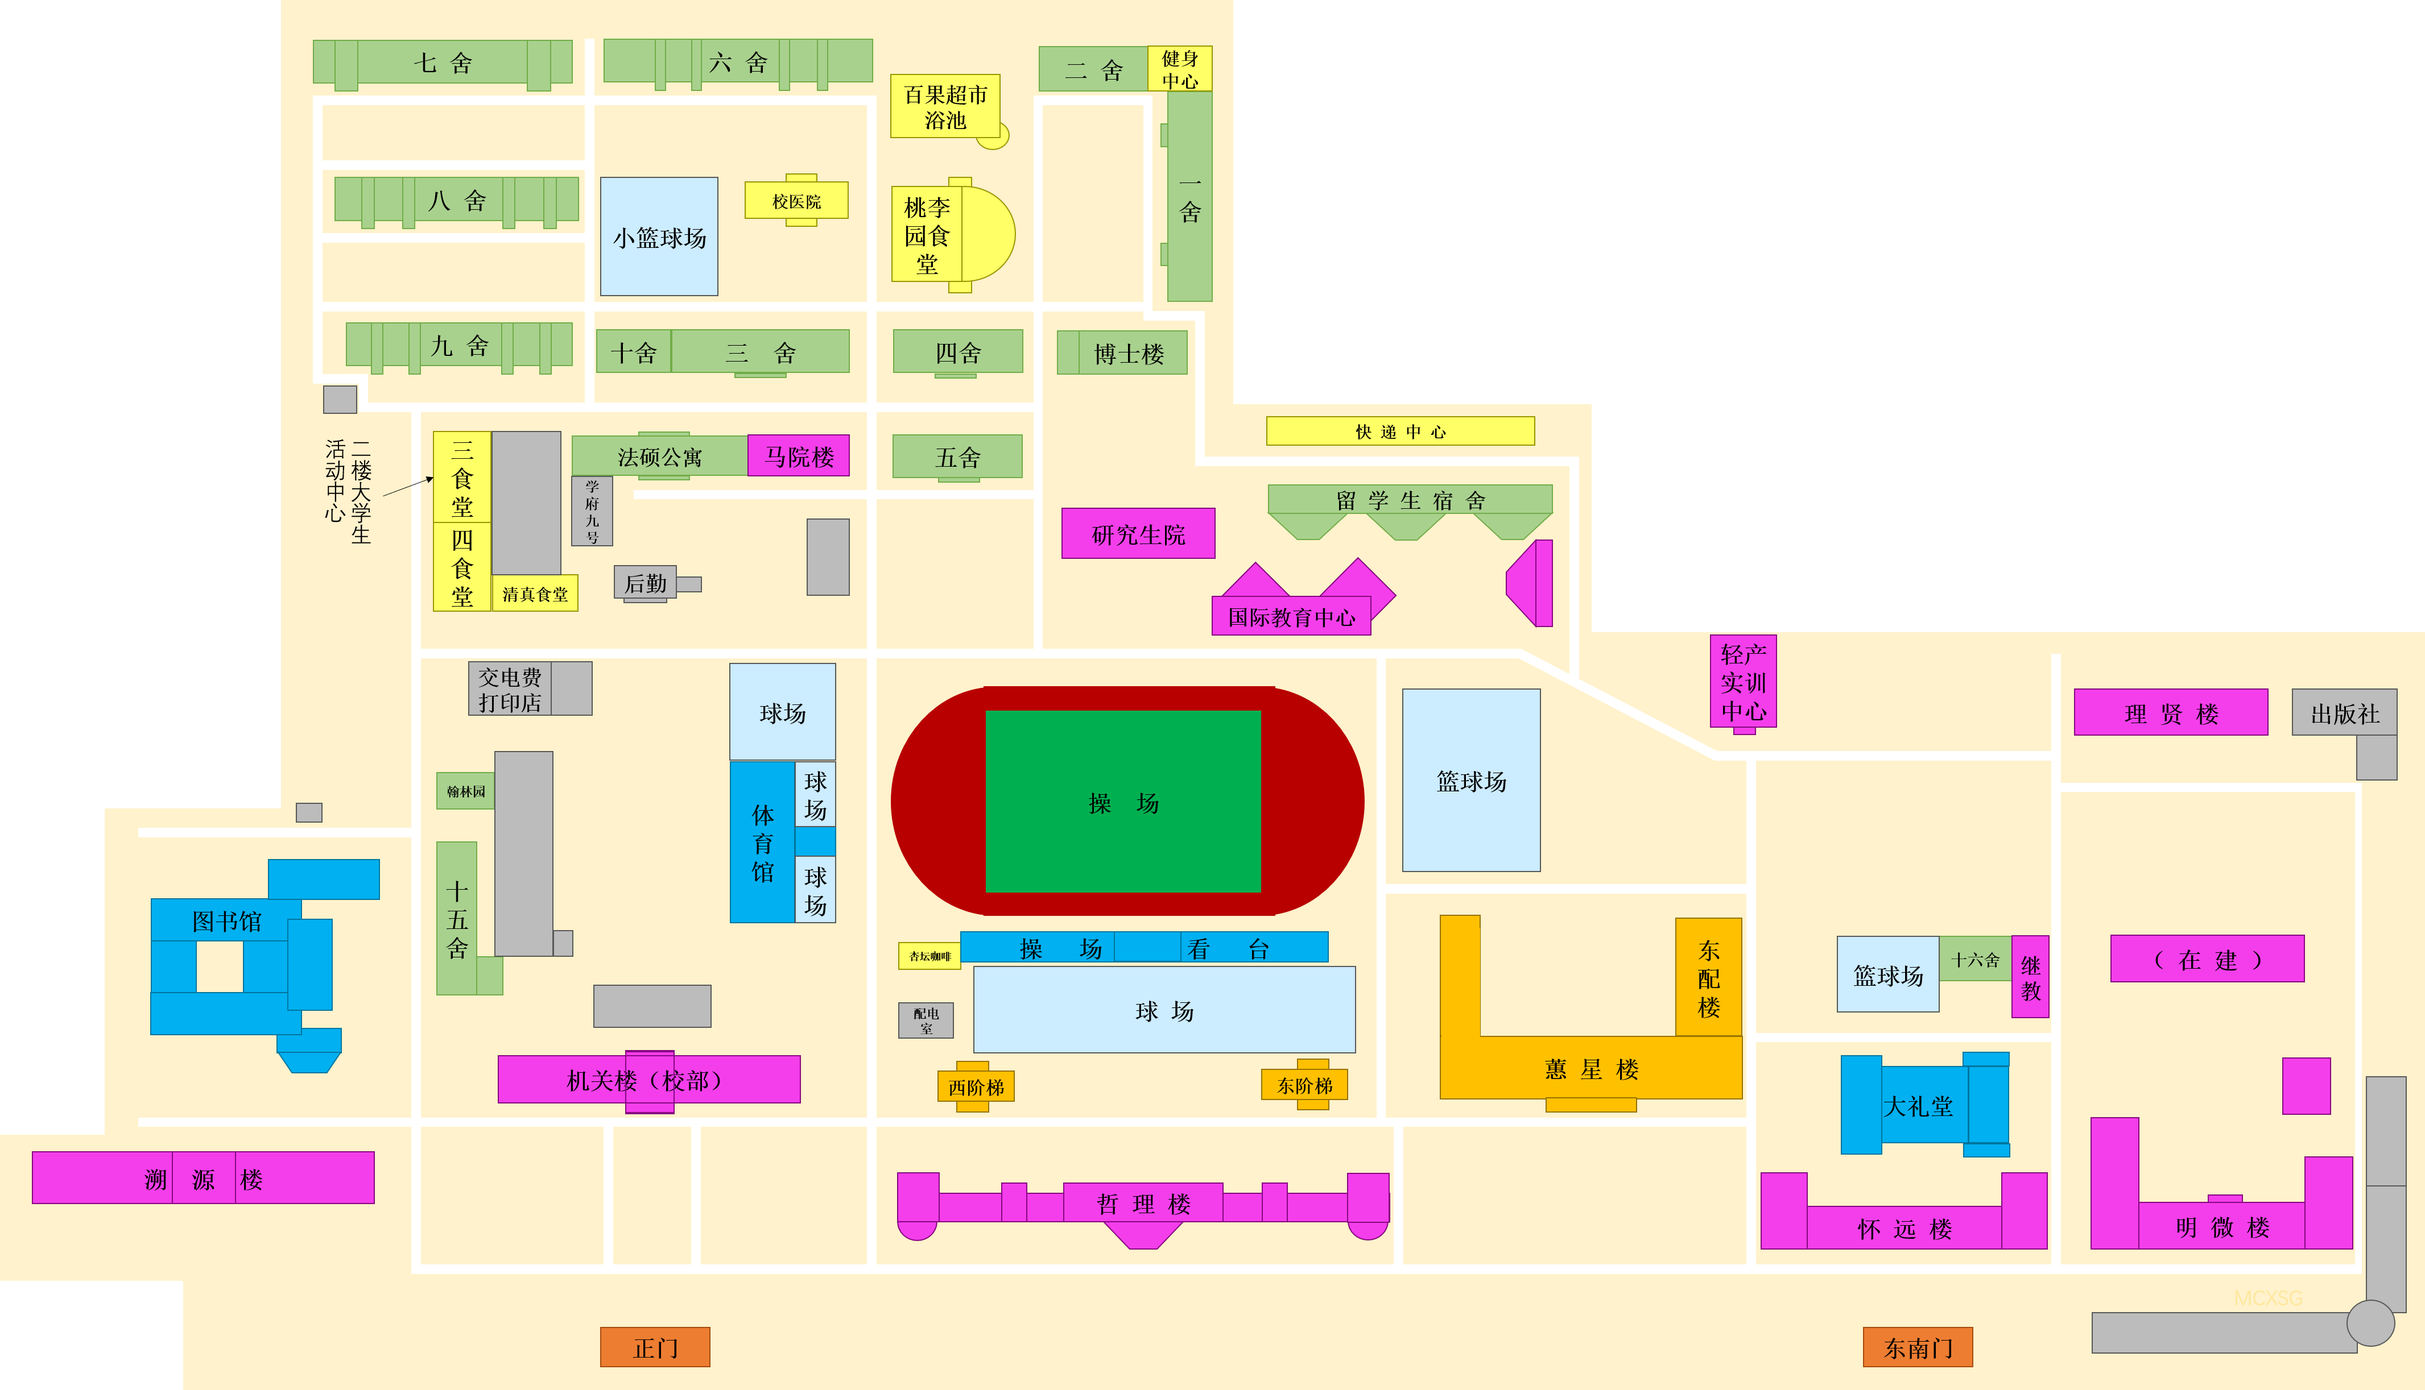
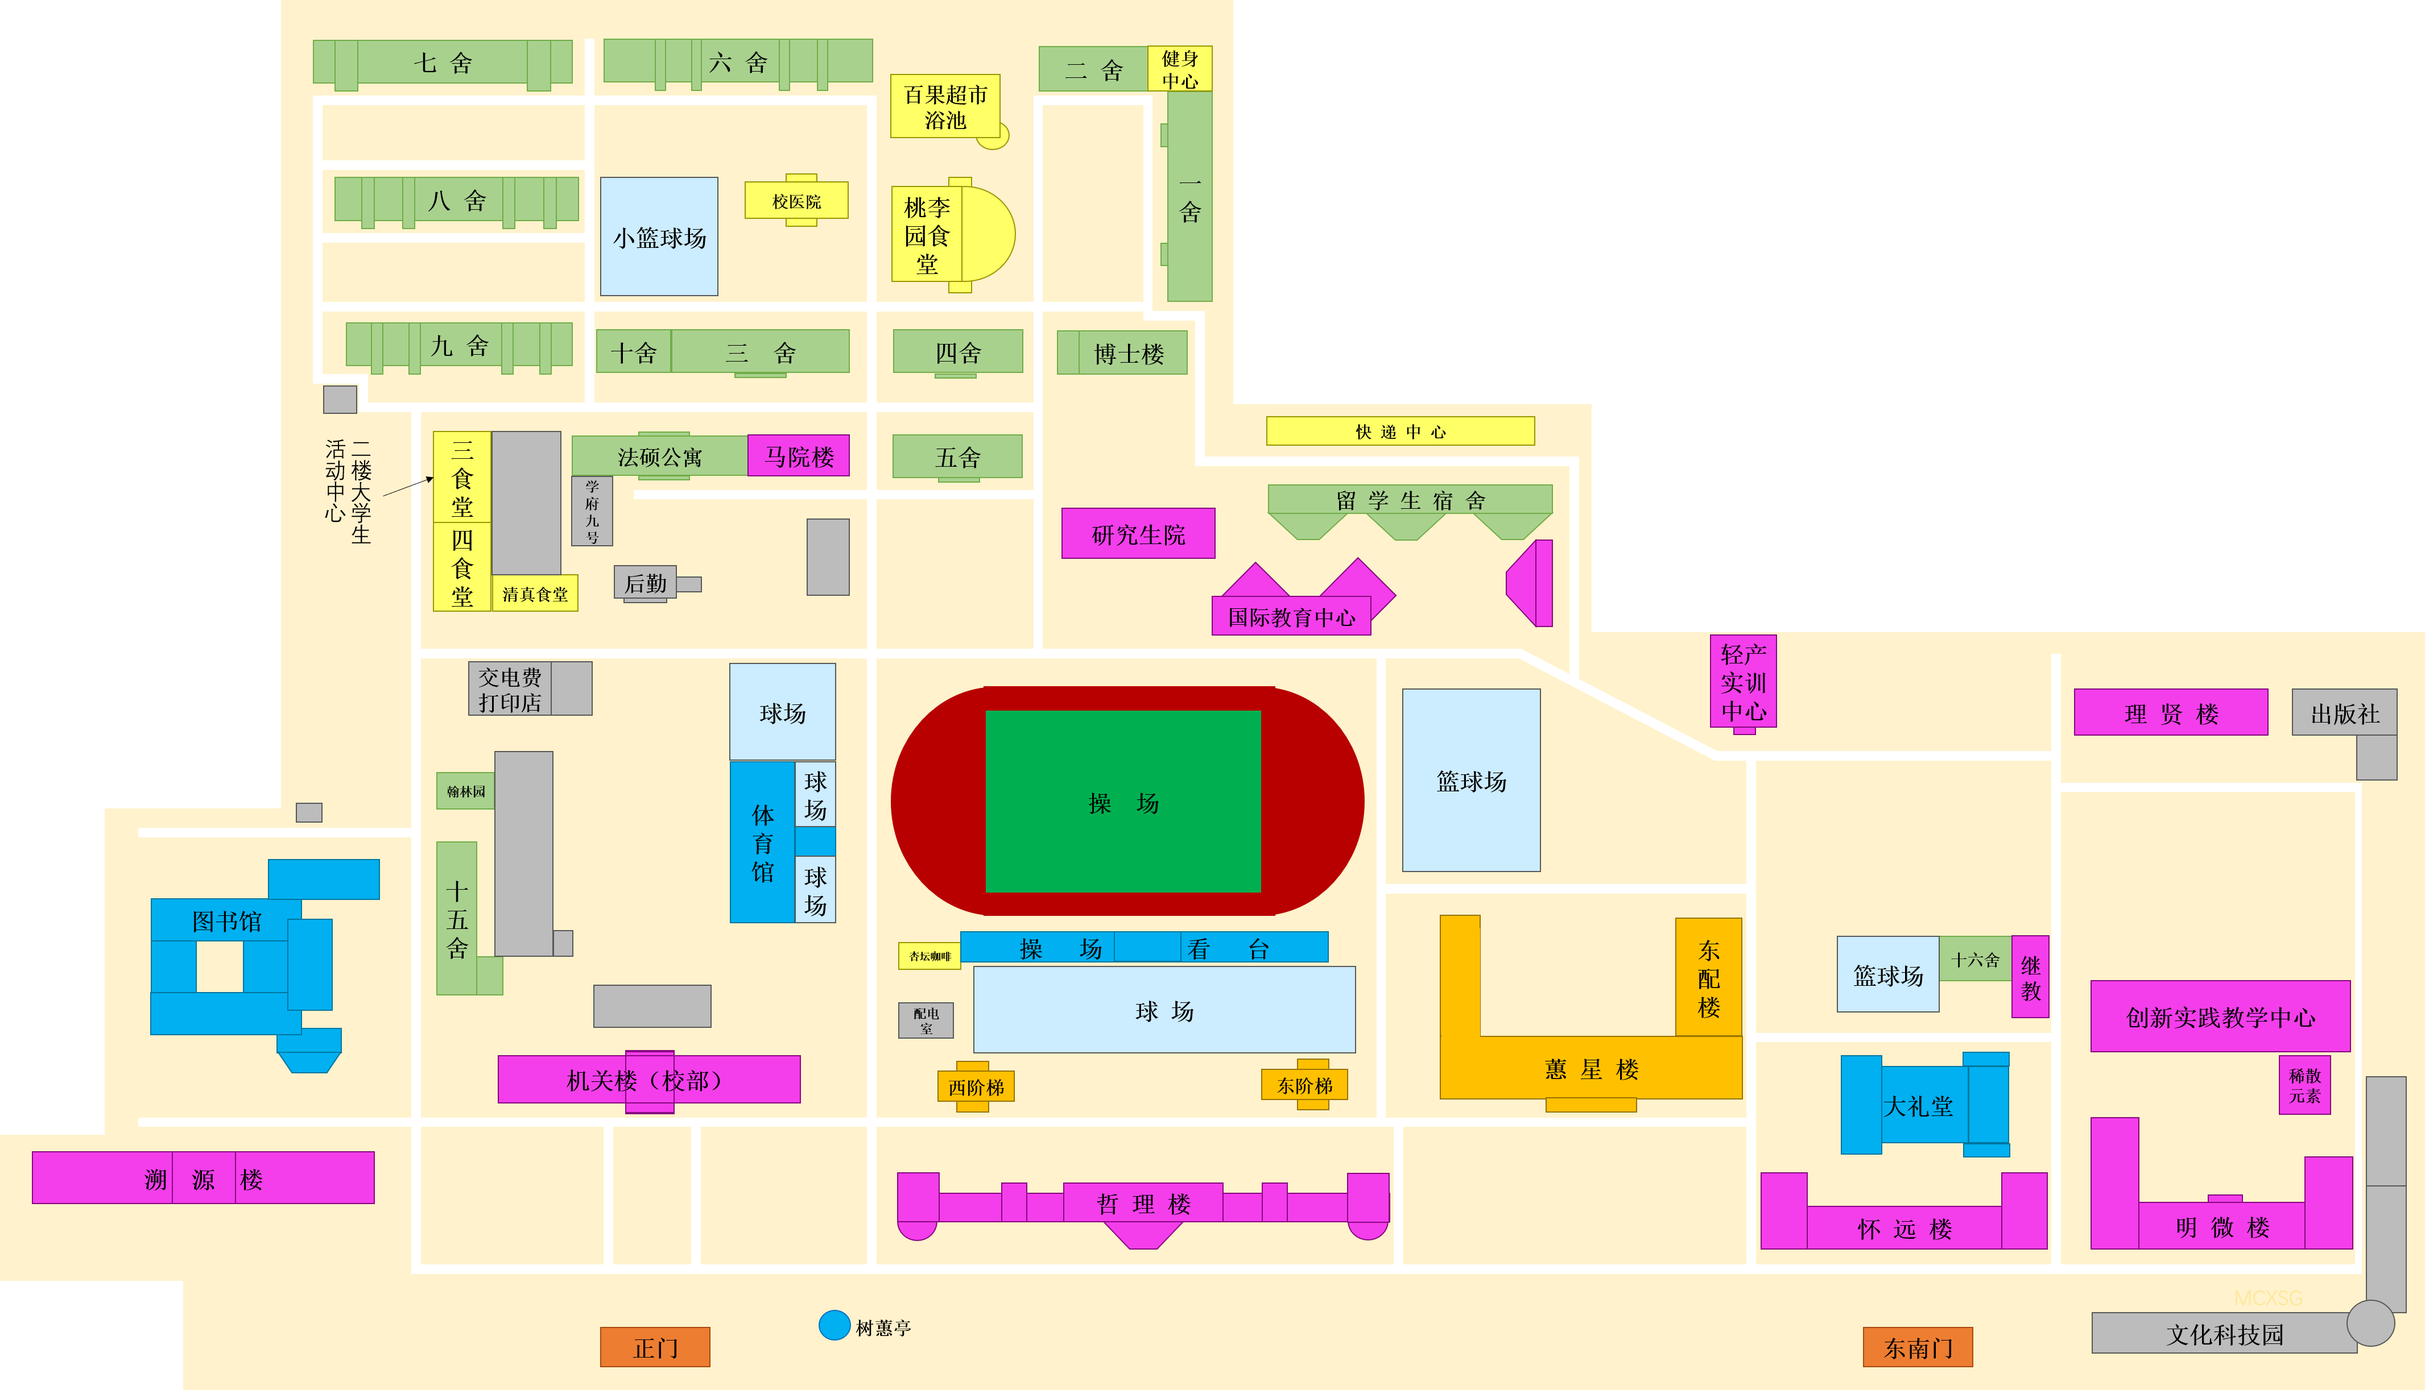
Add files via upload

Changed region(s): [[0.8424, 0.6528, 0.9672, 0.8082], [0.9048, 0.9325, 0.936, 0.9636], [0.3432, 0.9325, 0.3744, 0.9636]]

diff --git a/LNUmap/WEBmap.html b/LNUmap/WEBmap.html
@@ -54,7 +54,7 @@
 	{
 		position:absolute;
 		left:380px;
-		top:110px;
+		top:100px;
 		z-index=16;
 		width:330px;
 		height:255px;
@@ -160,7 +160,7 @@
 	.cssICON_tao_li_yuan
 	{
     position: absolute;
-    left: 446px;
+    left: 447px;
     top: 95px;
     z-index: 3;
 	}
@@ -171,6 +171,156 @@
     top: 44px;
     z-index: 3;
 	}
+	.cssICON_chu_ban_she
+	{
+    position: absolute;
+    left: 1142px;
+    top: 349px;
+    z-index: 3;
+	}
+	.cssICON_da_li_tang
+	{
+    position: absolute;
+    left: 918px;
+    top: 528px;
+    z-index: 3;
+	}
+	.cssICON_dong_jie_ti
+	{
+    position: absolute;
+    left: 632px;
+    top: 532px;
+    z-index: 3;
+	}
+	.cssICON_xi_jie_ti
+	{
+    position: absolute;
+    left: 470px;
+    top: 532px;
+    z-index: 3;
+	}
+	.cssICON_huai_yuan_lou
+	{
+    position: absolute;
+    left: 879px;
+    top: 588.3px;
+    z-index: 3;
+	}
+	.cssICON_ji_guan_lou
+	{
+    position: absolute;
+    left: 254px;
+    top: 528px;
+    z-index: 3;
+	}
+	.cssICON_ji_jiao
+	{
+    position: absolute;
+    left: 1001px;
+    top: 470px;
+    z-index: 3;
+	}
+	.cssICON_kuai_di_zhong_xin
+	{
+    position: absolute;
+    left: 634px;
+    top: 213.5px;
+    z-index: 3;
+	}
+	.cssICON_lan_qiu_chang
+	{
+    position: absolute;
+    left: 701px;
+    top: 349px;
+    z-index: 3;
+	}
+	.cssICON_li_xian_lou
+	{
+    position: absolute;
+    left: 1034px;
+    top: 349px;
+    z-index: 3;
+	}
+	.cssICON_liu_xue_sheng_su_she
+	{
+    position: absolute;
+    left: 635px;
+    top: 245.5px;
+    z-index: 3;
+	}
+	.cssICON_ming_wei_lou
+	{
+    position: absolute;
+    left: 1042px;
+    top: 561px;
+    z-index: 4;
+	}
+	.cssICON_qing_chan_shi_xun_zhong_xin
+	{
+    position: absolute;
+    left: 851px;
+    top: 320px;
+    z-index: 3;
+	}
+	.cssICON_shu_hui_ting
+	{
+    position: absolute;
+    left: 413px;
+    top: 657px;
+    z-index: 3;
+	}
+	.cssICON_su_yuan_lou
+	{
+    position: absolute;
+    left: 22.5px;
+    top: 577.5px;
+    z-index: 3;
+	}
+	.cssICON_tu_shu_guan
+	{
+    position: absolute;
+    left: 82px;
+    top: 433px;
+    z-index: 3;
+	}
+	.cssICON_wen_hua_ke_ji_yuan
+	{
+    position: absolute;
+    left: 1041px;
+    top: 595.5px;
+    z-index: 3;
+	}
+	.cssICON_xi_san_yuan_su
+	{
+    position: absolute;
+    left: 1135px;
+    top: 530px;
+    z-index: 5;
+	}
+	.cssICON_xin_li_ce_shi_shi_yan_shi
+	{
+    position: absolute;
+    left: 753px;
+    top: 274px;
+    z-index: 3;
+	}
+	.cssICON_zai_jian
+	{
+    position: absolute;
+    left: 1042px;
+    top: 493px;
+    z-index: 3;
+	}
+	.cssICON_zhe_li_lou
+	{
+    position: absolute;
+    left: 451.7px;
+    top: 588px;
+    z-index: 3;
+	}
+	
+	
+	
 	.cssICON_Title
 	{
     position: absolute;
@@ -256,11 +406,40 @@
 		
 	  <div class="cssICON_7_she" onclick="LocID='7_she';imgNum=4;showWind('七舍学生宿舍','七舍学生宿舍位于辽宁大学崇山校区西北角，男寝，本科生宿舍。基本配置：六人寝上床下桌,配备有阳台，无独立卫浴。','7_she',4)"><img src="images/icon/7_she.png" width="130" height="25" /></div>
 	  <div class="cssICON_6_she" onclick="LocID='6_she';imgNum=3;showWind('六舍学生宿舍','六舍学生宿舍位于辽宁大学崇山校区西北部，男寝，本科生宿舍。基本配置：六人寝上床下桌,配备有阳台，无独立卫浴。','6_she',3)"><img src="images/icon/6_she.png" width="134" height="26" /></div>
-	  <div class="cssICON_hui_xing" onclick="LocID='hui_xing_lou';imgNum=3;showWind('蕙星楼','蕙星楼位于辽宁大学正南部，是一栋白色10层教学楼，为老校区最大的教学楼。楼内有教室，一楼有化学实验室，听力教室位于九楼。楼内配有两部电梯，楼后的小门周末不开放。\n蕙星楼开放时间：6：00--21：30','hui_xing_lou',3)"><img src="images/icon/hui_xing_lou.png" width="150"  /></div>
-	  <div class="cssICON_dong_pei_lou" onclick="LocID='dong_pei_lou';imgNum=2;showWind('东配楼','阶梯教室楼','dong_pei_lou',2)"><img src="images/icon/dong_pei_lou.png" width="33.5"  /></div>
-	  <div class="cssICON_tao_li_yuan" onclick="LocID='tao_li_yuan_shi_tang';imgNum=4;showWind('桃李园食堂','崇山校区最大的食堂，共有三层。','tao_li_yuan_shi_tang',2)"><img src="images/icon/tao_li_yuan_shi_tang.png" width="64"  /></div>
+	  <div class="cssICON_hui_xing" onclick="LocID='hui_xing_lou';imgNum=14;showWind('蕙星楼','蕙星楼位于辽宁大学正南部，是一栋白色10层教学楼，为老校区最大的教学楼。楼内有教室，一楼有化学实验室，听力教室位于九楼。楼内配有两部电梯，楼后的小门周末不开放。<br>蕙星楼开放时间：6：00--21：30','hui_xing_lou',14)"><img src="images/icon/hui_xing_lou.png" width="150"  /></div>
+	  <div class="cssICON_dong_pei_lou" onclick="LocID='dong_pei_lou';imgNum=4;showWind('东配楼','7层阶梯教室楼，每层3间大型阶梯教室，每间教室可容纳200人。','dong_pei_lou',4)"><img src="images/icon/dong_pei_lou.png" width="33.5"  /></div>
+	  <div class="cssICON_tao_li_yuan" onclick="LocID='tao_li_yuan_shi_tang';imgNum=4;showWind('桃李园食堂','崇山校区最大的食堂，共有三层。','tao_li_yuan_shi_tang',2)"><img src="images/icon/tao_li_yuan_shi_tang.png" width="6"  /></div>
 	  <div class="cssICON_2_she" onclick="LocID='2_she';imgNum=4;showWind('学生宿舍二舍','学生宿舍二舍为女寝，宿舍楼于2000年竣工，共七层，宿舍配备有阳台。','2_she',3)"><img src="images/icon/2_she.png" width="55"  /></div>
-	  <div class="cssICON_bgcs" onclick="LocID='bgcs';imgNum=4;showWind('百果超市商业楼','百果超市位于崇山校区北部，为崇山校区商户区。共有三层楼：\n一楼为超市，电脑维修，摄影等店铺 \n二楼为太平洋咖啡和男浴池 \n三楼为校园卡中心和女浴池 \n桃李园超市开业时间为7:40--21:20','bgcs',3)"><img src="images/icon/bgcs.png" width="62"  /></div>
+	  <div class="cssICON_bgcs" onclick="LocID='bgcs';imgNum=4;showWind('百果超市商业楼','百果超市位于崇山校区北部，为崇山校区商户区。共有三层楼：<br>一楼为超市，电脑维修，摄影等店铺 <br>二楼为太平洋咖啡和男浴池 <br>三楼为校园卡中心和女浴池 <br>桃李园超市开业时间为7:40--21:20','bgcs',3)"><img src="images/icon/bgcs.png" width="62"  /></div>
+		
+		
+		
+	
+	  <div class="cssICON_chu_ban_she" onclick="LocID='chu_ban_she';imgNum=1;showWind('辽宁大学出版社','辽宁大学出版社办公楼（业务培训楼），建于1994年，共9层。','chu_ban_she',1)"><img src="images/icon/chu_ban_she.png" width="52"  /></div>	
+	  <div class="cssICON_da_li_tang" onclick="LocID='da_li_tang';imgNum=4;showWind('大礼堂','崇山校区大礼堂位于怀远楼北面，修建于80年代中期，于2008年修缮。现用作文艺演出等活动场地。','da_li_tang',4)"><img src="images/icon/da_li_tang.png" width="86"  /></div>	
+	  <div class="cssICON_dong_jie_ti" onclick="LocID='dong_jie_ti';imgNum=3;showWind('东阶梯教学楼','东阶梯教学楼位于蕙星楼西侧，为3层阶梯教室楼，每层有两间不同规格的阶梯教室。东阶梯和西阶梯教学楼外观相似，分布在哲理楼后侧的两端。','dong_jie_ti',3)"><img src="images/icon/dong_jie_ti.png" width="43"  /></div>	
+	  <div class="cssICON_xi_jie_ti" onclick="LocID='xi_jie_ti';imgNum=3;showWind('西阶梯教学楼','西阶梯教学楼位于哲理楼西北方向，银杏路旁，为3层阶梯教室楼，每层有两间不同规格的阶梯教室。东阶梯和西阶梯教学楼外观相似，分别位于哲理楼后侧的两端。','xi_jie_ti',3)"><img src="images/icon/xi_jie_ti.png" width="42"  /></div>	
+	  <div class="cssICON_huai_yuan_lou" onclick="LocID='huai_yuan_lou';imgNum=6;showWind('怀远楼','怀远楼正对着崇山校区东南门，1953年投入使用，为苏联风格建筑，立面风格类似于俄罗斯冬宫，原为沈阳俄文专科学校教学楼，现在为辽宁大学轻型产业学院和环境学院科研实验楼。','huai_yuan_lou',6)"><img src="images/icon/huai_yuan_lou.png" width="142.5"  /></div>	
+	  <div class="cssICON_ji_guan_lou" onclick="LocID='ji_guan_lou';imgNum=5;showWind('机关楼','机关楼建于1956年，正对着崇山校区正门，原为辽宁大学图书馆，现作为辽宁大学崇山校区校部办公楼。','ji_guan_lou',5)"><img src="images/icon/ji_guan_lou.png" width="151"  /></div>		
+	  <div class="cssICON_ji_jiao" onclick="LocID='ji_jiao';imgNum=3;showWind('继续教育学院','辽宁大学继续教育学院楼。','ji_jiao',3)"><img src="images/icon/ji_jiao.png" width="24.5"  /></div>	
+	  <div class="cssICON_kuai_di_zhong_xin" onclick="LocID='kuai_di_zhong_xin';imgNum=2;showWind('快递中心','崇山校区的快递中心，所有的快递都在这里取，这里也可以邮寄快递。','kuai_di_zhong_xin',2)"><img src="images/icon/kuai_di_zhong_xin.png" width="134"  /></div>	
+	  <div class="cssICON_lan_qiu_chang" onclick="LocID='lan_qiu_chang';imgNum=4;showWind('篮球场','崇山校区大篮球场，位于蕙星楼后侧，为2022年新修建的标准篮球场，共有8个标准场地，崇山校区的各大篮球比赛在此举行。','lan_qiu_chang',4)"><img src="images/icon/lan_qiu_chang.png" width="69"  /></div>	
+	  <div class="cssICON_li_xian_lou" onclick="LocID='li_xian_lou';imgNum=4;showWind('理贤楼','理贤楼位于崇山校区东部，共9层，为物理学院的科研办公楼，配备有各类物理实验室。理工科的大物实验在此楼进行。','li_xian_lou',4)"><img src="images/icon/li_xian_lou.png" width="97"  /></div>	
+	  <div class="cssICON_liu_xue_sheng_su_she" onclick="LocID='liu_xue_sheng_su_she';imgNum=2;showWind('友园留学生宿舍','友园留学生宿舍，建于2005年，共七层。楼内配备有电梯，宿舍为单人单间，有独立卫浴。','liu_xue_sheng_su_she',2)"><img src="images/icon/liu_xue_sheng_su_she.png" width="142"  /></div>
+		
+	  <div class="cssICON_ming_wei_lou" onclick="LocID='ming_wei_lou';imgNum=6;showWind('明微楼','明微楼位于崇山校区东南部，建于1966年，原为辽宁大学理工楼，现作为辽宁大学化学学院科研办公楼。','ming_wei_lou',6)"><img src="images/icon/ming_wei_lou.png" width="131"  /></div>
+	  <div class="cssICON_qing_chan_shi_xun_zhong_xin" onclick="LocID='cssICON_qing_chan_shi_xun_zhong_xin';imgNum=3;showWind('轻型产业学院实训中心','轻型产业学院的实训中心（大活），内有轻产实验室，可进行实验活动。','qing_chan_shi_xun_zhong_xin',3)"><img src="images/icon/qing_chan_shi_xun_zhong_xin.png" width="38.5"  /></div>	
+	  <div class="cssICON_shu_hui_ting" onclick="LocID='shu_hui_ting';imgNum=3;showWind('树蕙亭','银杏路南端的景观亭子，树蕙亭旁有假山与荷塘等景观，假山中有小型瀑布，荷塘中可以看到鱼。','shu_hui_ting',3)"><img src="images/icon/shu_hui_ting.png" width="57"  /></div>	
+	  <div class="cssICON_su_yuan_lou" onclick="LocID='su_yuan_lou';imgNum=5;showWind('溯源楼','溯源楼位于崇山校区西南部，图书馆南侧。现作为辽宁大学生命科学院的科研办公楼和环境学院的实验中心。','su_yuan_lou',5)"><img src="images/icon/su_yuan_lou.png" width="171"  /></div>	
+	  <div class="cssICON_tu_shu_guan" onclick="LocID='tu_shu_guan';imgNum=9;showWind('图书馆','崇山校区图书馆位于崇山校区西南部，1998年投入使用，图书馆共6层。<br>1楼为基藏书库和办公区域，电梯西侧有开水间。<br>2楼有文史类阅览室以及电子阅览室，南侧为学术报告厅。<br>3楼分布有理工科阅览室以及古籍修复室。<br>4楼南北各有一间自修室，自修室在二楼刷卡使用,东侧为自然历史博物馆，存放生物标本。<br>5楼和6楼为办公区域。<br>图书馆开放时间：<br>6:00--21:30 阅览室开放  <br>6:00--22:00 自修室开放','tu_shu_guan',9)"><img src="images/icon/tu_shu_guan.png" width="114"  /></div>	
+	  <div class="cssICON_wen_hua_ke_ji_yuan" onclick="LocID='wen_hua_ke_ji_yuan';imgNum=1;showWind('文化科技园','辽宁大学文化科技园，一楼为门市，楼内有培训机构与店铺等商户。','wen_hua_ke_ji_yuan',1)"><img src="images/icon/wen_hua_ke_ji_yuan.png" width="158"  /></div>	
+	  <div class="cssICON_xi_san_yuan_su" onclick="LocID='xi_san_yuan_su';imgNum=2;showWind('辽宁大学稀散元素','辽宁大学稀散化学元素存放地。','xi_san_yuan_su',2)"><img src="images/icon/xi_san_yuan_su.png" width="27"  /></div>	
+	  <div class="cssICON_xin_li_ce_shi_shi_yan_shi" onclick="LocID='xin_li_ce_shi_shi_yan_shi';imgNum=2;showWind('心理测试与行为分析重点实验室','辽宁省科学技术厅在辽宁大学开设的辽宁省心理测试与行为分析实验室，原址为友园食堂，2022年改建为心理测试实验室。','xin_li_ce_shi_shi_yan_shi',2)"><img src="images/icon/xin_li_ce_shi_shi_yan_shi.png" width="90"  /></div>	
+	  <div class="cssICON_zai_jian" onclick="LocID='zai_jian';imgNum=3;showWind('创新实践教学中心（在建）','辽宁大学创新实践教学中心（在建）。','zai_jian',3)"><img src="images/icon/zai_jian.png" width="129.5"  /></div>	
+	  <div class="cssICON_zhe_li_lou" onclick="LocID='zhe_li_lou';imgNum=11;showWind('哲理楼','哲理楼，原名哲经楼，位于崇山校区南部，为欧洲风格的楼房，1952年底投入使用。哲理楼一楼中厅放置一尊马克思塑像。现为辽宁大学信息学院和数学与统计学院的科研办公楼。','zhe_li_lou',11)"><img src="images/icon/zhe_li_lou.png" width="244"  /></div>	
+		
+		
+		
 		
 		
 	<div class="cssAuth" style="top: 540px">
